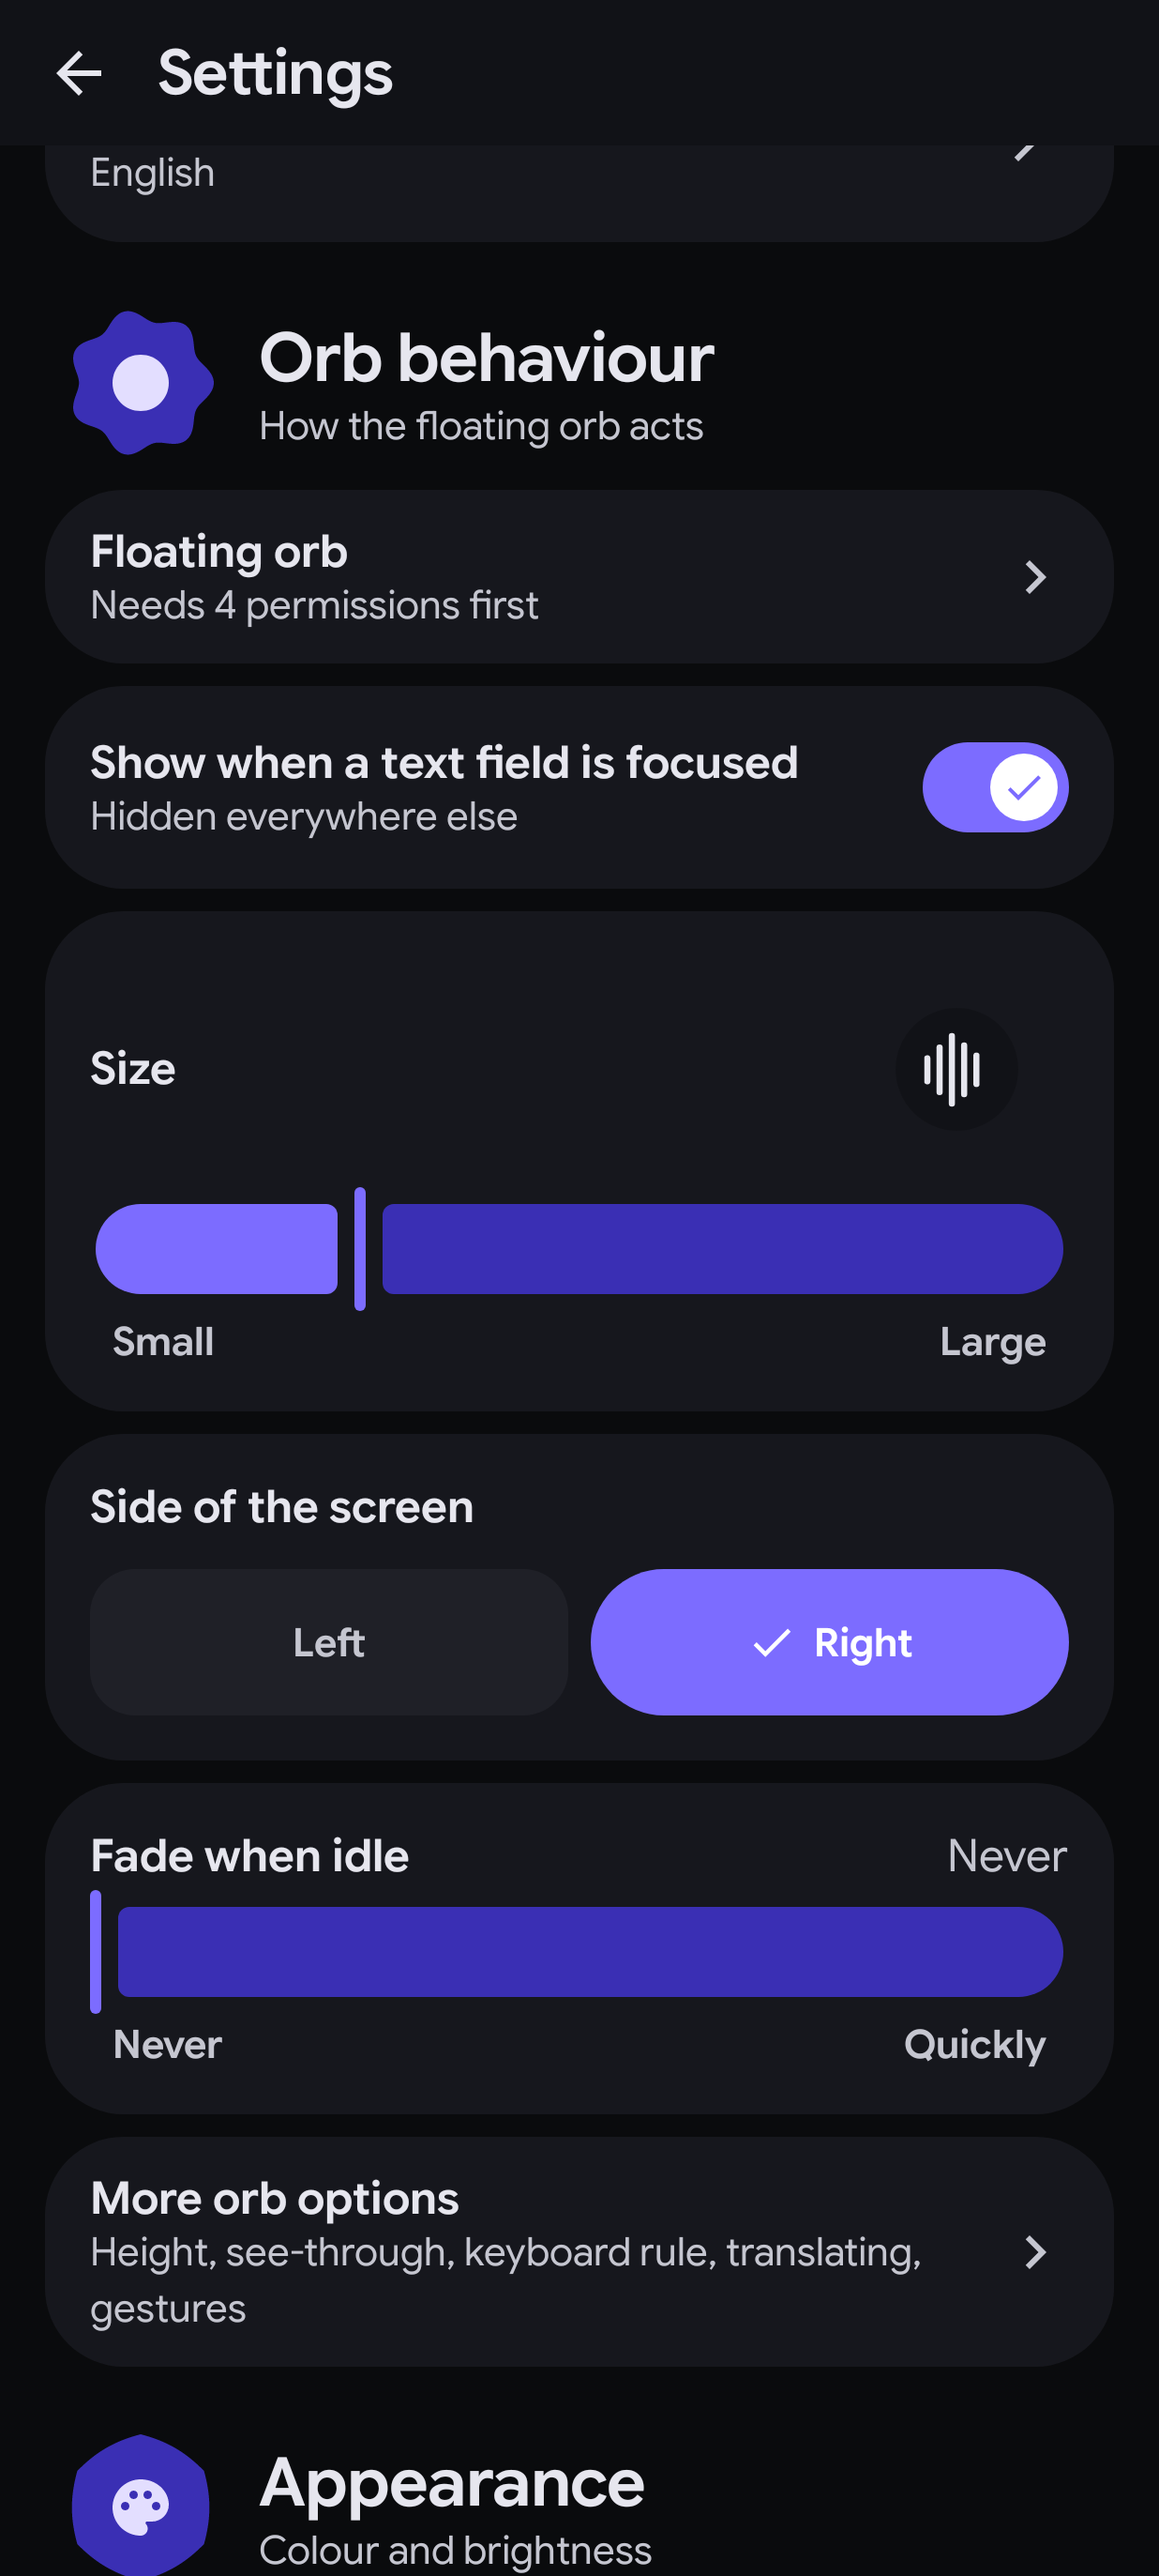
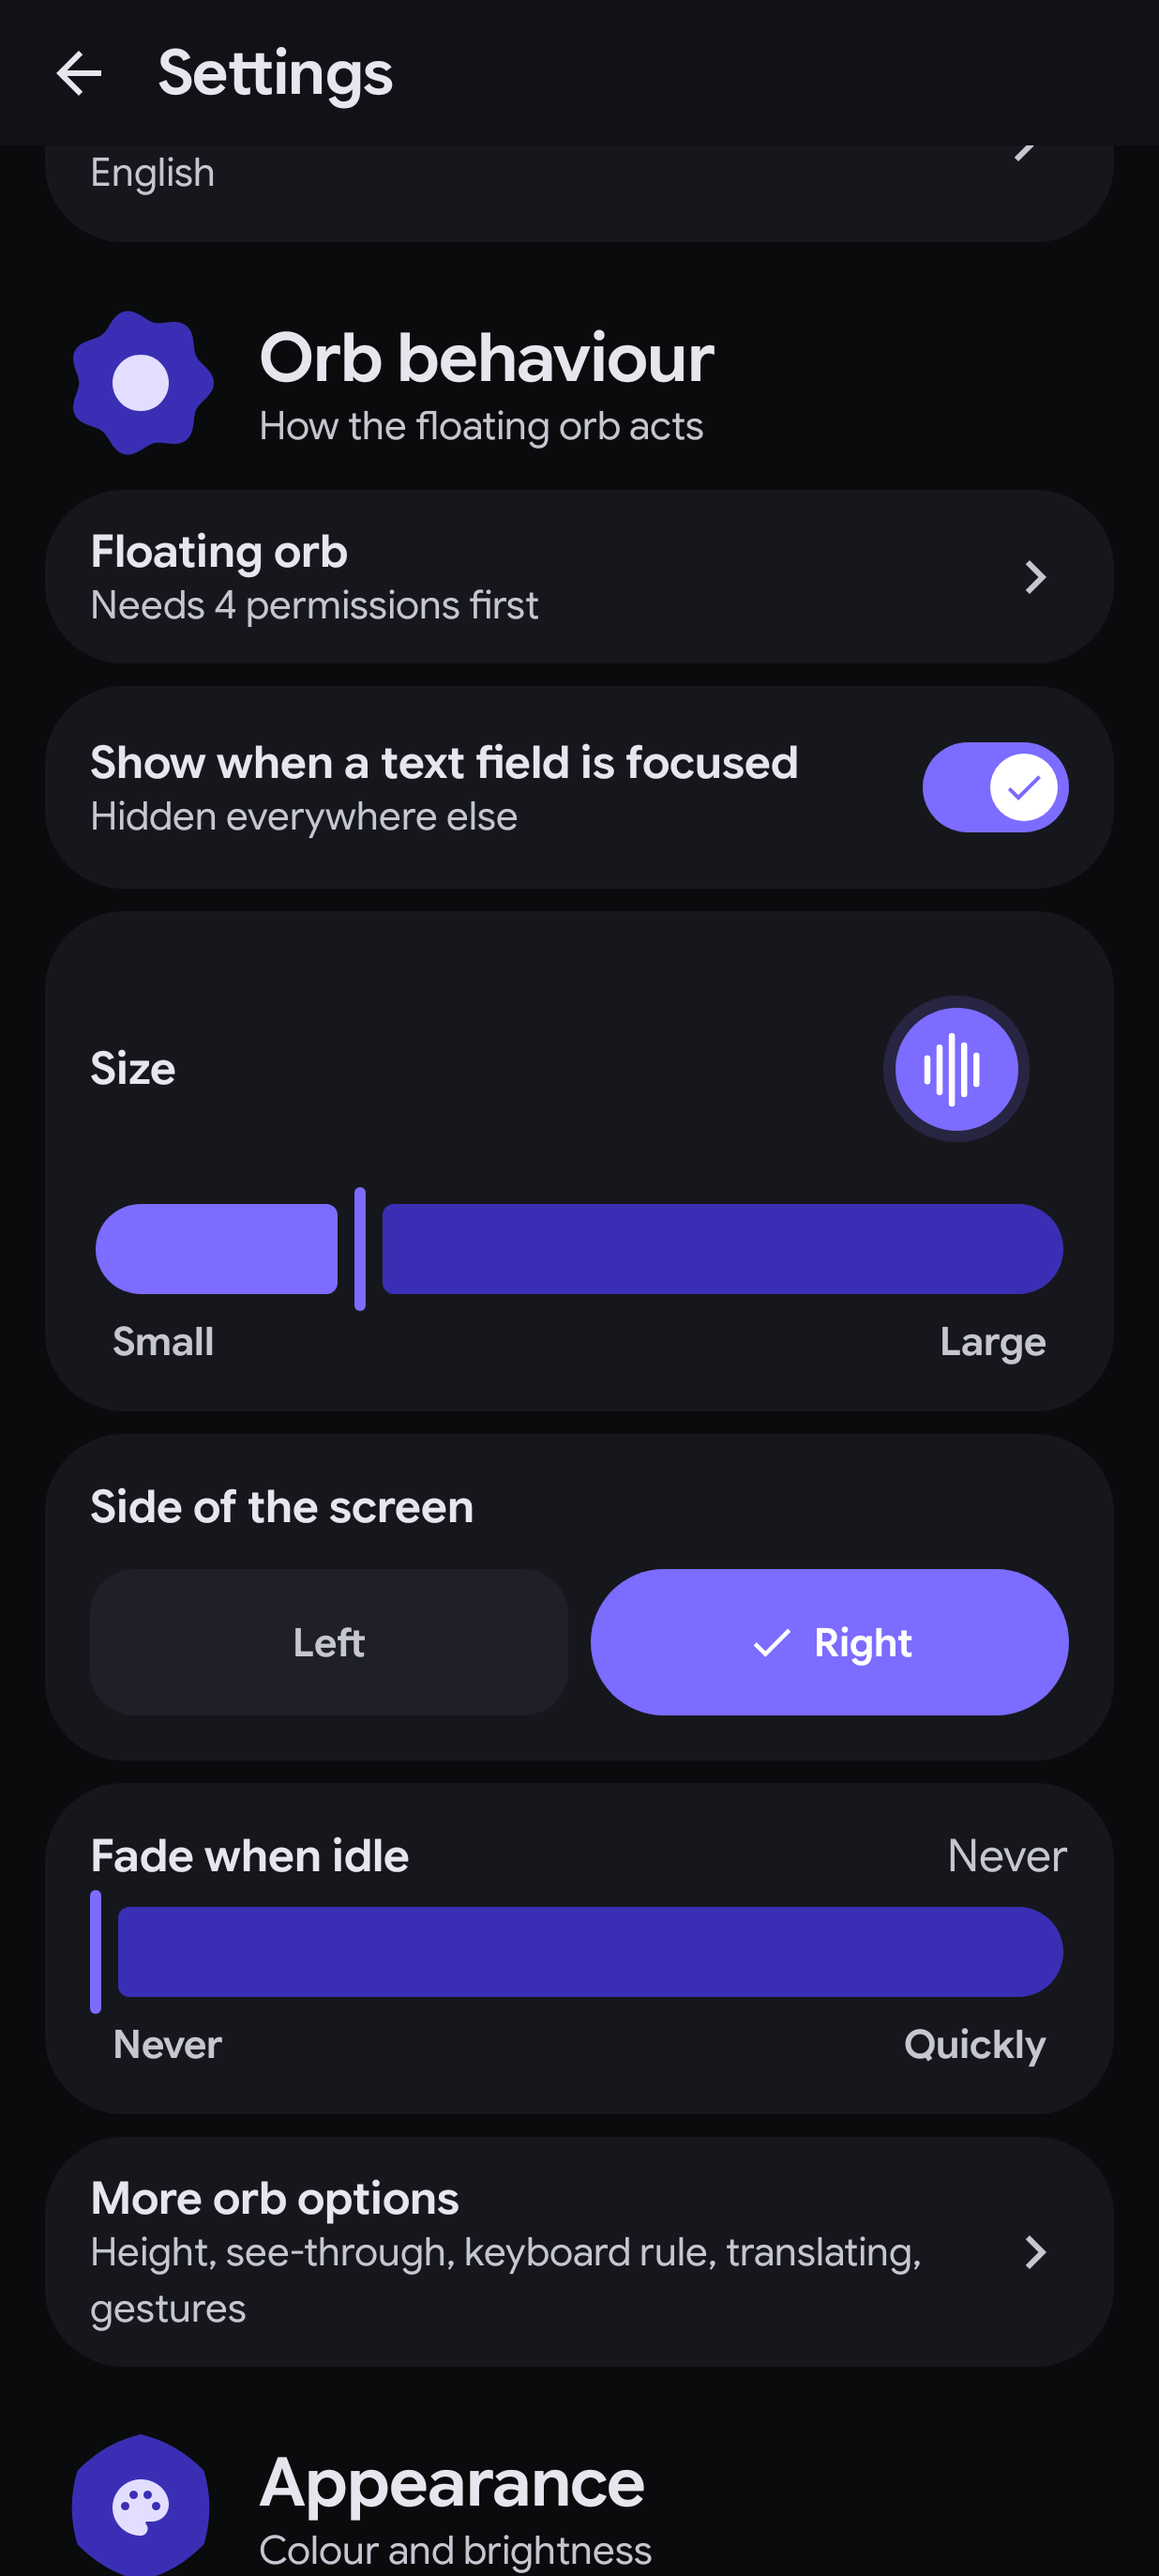
Languages card edits the shared language selection, and opens the same picker as the home screen
Drops the separate hint list; the card, the home screen and the engines all read one LanguageSelection.

Changed region(s): [[0.7379, 0.3716, 0.8916, 0.4645]]

diff --git a/app/src/main/java/io/github/pastdaking/rmblr/ui/screens/LanguageSettings.kt b/app/src/main/java/io/github/pastdaking/rmblr/ui/screens/LanguageSettings.kt
@@ -37,7 +37,6 @@ import androidx.compose.ui.draw.clip
 import androidx.compose.ui.platform.testTag
 import androidx.compose.ui.text.input.ImeAction
 import androidx.compose.ui.unit.dp
-import io.github.pastdaking.rmblr.data.LanguageRules
 import io.github.pastdaking.rmblr.data.PreferencesManager
 import io.github.pastdaking.rmblr.data.SUGGESTED_LANGUAGES
 import io.github.pastdaking.rmblr.ui.components.RmblrSheet
@@ -56,28 +55,27 @@ import io.github.pastdaking.rmblr.ui.theme.SecondaryWash
 import io.github.pastdaking.rmblr.ui.theme.TextHigh
 import io.github.pastdaking.rmblr.ui.theme.TextMid
 
-private enum class LanguageSheet { ADD_HINT, SINGLE, WRITE_IN, TRANSLATE_TO }
+private enum class LangSheet { SELECT, WRITE_IN, TRANSLATE_TO }
 
 /**
  * The Languages part of Settings: say what you speak, or leave it to the model.
  *
- * Auto-detect is the default and the recommendation. Naming extra languages while it is on
- * does not narrow anything; it only tells the model which ones are likely to turn up, which
- * helps when two of them sound alike. Turn auto-detect off and it becomes one named
- * language, the way the old single field worked.
+ * It edits the same [LanguageSelection] as the picker on the home screen. Auto-detect is the
+ * default; with it on, the names listed are only hints about what is likely to turn up. With
+ * it off they are the languages you speak, one or several for mixed speech.
  */
 @OptIn(ExperimentalLayoutApi::class)
 @Composable
 fun LanguagesSection(prefs: PreferencesManager, modifier: Modifier = Modifier) {
-    val state by prefs.languageStateFlow.collectAsState()
+    val selection by prefs.languageSelectionFlow.collectAsState()
     val writeIn by prefs.dictationLanguageFlow.collectAsState()
     val target by prefs.translateTargetFlow.collectAsState()
-    var sheet by remember { mutableStateOf<LanguageSheet?>(null) }
+    var sheet by remember { mutableStateOf<LangSheet?>(null) }
 
     Column(modifier, verticalArrangement = Arrangement.spacedBy(Space.sm)) {
         TonalCard(padding = PaddingValues(Space.lg)) {
             Row(verticalAlignment = Alignment.CenterVertically, modifier = Modifier.pressable(pressedScale = 0.99f) {
-                prefs.setLanguageState(state.copy(auto = !state.auto))
+                prefs.setLanguageSelection(selection.withAuto(!selection.auto))
             }) {
                 Column(Modifier.weight(1f)) {
                     Text("Auto-detect", color = TextHigh, style = MaterialTheme.typography.titleMedium)
@@ -88,75 +86,52 @@ fun LanguagesSection(prefs: PreferencesManager, modifier: Modifier = Modifier) {
                     )
                 }
                 Spacer(Modifier.width(Space.md))
-                TickSwitch(state.auto, { prefs.setLanguageState(state.copy(auto = it)) }, Modifier.testTag("switch_auto_detect"))
+                TickSwitch(
+                    selection.auto,
+                    { prefs.setLanguageSelection(selection.withAuto(it)) },
+                    Modifier.testTag("switch_auto_detect")
+                )
             }
 
             Spacer(Modifier.height(Space.md))
             HorizontalDivider(color = Line)
             Spacer(Modifier.height(Space.md))
 
-            if (state.auto) {
-                Text("Also expect", color = TextHigh, style = MaterialTheme.typography.titleMedium)
-                Spacer(Modifier.height(Space.sm))
-                FlowRow(
-                    horizontalArrangement = Arrangement.spacedBy(Space.sm),
-                    verticalArrangement = Arrangement.spacedBy(Space.sm)
-                ) {
-                    state.hints.forEach { name ->
-                        RemovableChip(name, onRemove = { prefs.setLanguageState(LanguageRules.withoutHint(state, name)) })
-                    }
-                    if (state.hints.size < LanguageRules.MAX_HINTS) {
-                        AssistChip(
-                            label = "Add language",
-                            icon = Icons.Default.Add,
-                            onClick = { sheet = LanguageSheet.ADD_HINT },
-                            modifier = Modifier.testTag("add_language")
-                        )
-                    }
+            Text(
+                if (selection.auto) "Also expect" else "Languages you speak",
+                color = TextHigh,
+                style = MaterialTheme.typography.titleMedium
+            )
+            Spacer(Modifier.height(Space.sm))
+            FlowRow(
+                horizontalArrangement = Arrangement.spacedBy(Space.sm),
+                verticalArrangement = Arrangement.spacedBy(Space.sm)
+            ) {
+                selection.names.forEach { name ->
+                    RemovableChip(name, onRemove = { prefs.setLanguageSelection(selection.toggle(name)) })
                 }
-            } else {
-                Row(
-                    verticalAlignment = Alignment.CenterVertically,
-                    modifier = Modifier.fillMaxWidth().pressable(pressedScale = 0.99f) { sheet = LanguageSheet.SINGLE }
-                ) {
-                    Column(Modifier.weight(1f)) {
-                        Text("Language you speak", color = TextHigh, style = MaterialTheme.typography.titleMedium)
-                        Text(
-                            state.single.ifBlank { "Choose one" },
-                            color = TextMid,
-                            style = MaterialTheme.typography.bodyMedium
-                        )
-                    }
-                    Icon(Icons.Default.ChevronRight, null, tint = TextMid)
-                }
+                AssistChip(
+                    label = "Add language",
+                    icon = Icons.Default.Add,
+                    onClick = { sheet = LangSheet.SELECT },
+                    modifier = Modifier.testTag("add_language")
+                )
             }
         }
 
         Column(verticalArrangement = Arrangement.spacedBy(4.dp)) {
-            LanguageRow(0, 2, "Write dictation in", writeIn.ifBlank { "Same as I spoke" }) { sheet = LanguageSheet.WRITE_IN }
-            LanguageRow(1, 2, "Translate into", target.ifBlank { "English" }) { sheet = LanguageSheet.TRANSLATE_TO }
+            LanguageRow(0, 2, "Write dictation in", writeIn.ifBlank { "Same as I spoke" }) { sheet = LangSheet.WRITE_IN }
+            LanguageRow(1, 2, "Translate into", target.ifBlank { "English" }) { sheet = LangSheet.TRANSLATE_TO }
         }
     }
 
     when (sheet) {
-        LanguageSheet.ADD_HINT -> LanguagePickerSheet(
-            title = "Also expect",
-            explanation = "Tell the model which other languages are likely to turn up. It still detects each word for itself.",
-            current = state.hints,
-            allowBlank = false,
-            onPick = { prefs.setLanguageState(LanguageRules.withHint(state, it)) },
-            onDismiss = { sheet = null },
-            closeOnPick = false
-        )
-        LanguageSheet.SINGLE -> LanguagePickerSheet(
-            title = "Language you speak",
-            explanation = "Type any language. It is only a name passed to the model, so it does not have to be on a list.",
-            current = listOf(state.single),
-            allowBlank = false,
-            onPick = { prefs.setLanguageState(state.copy(single = it)) },
+        LangSheet.SELECT -> LanguageSheet(
+            selection = selection,
+            onChange = { prefs.setLanguageSelection(it) },
             onDismiss = { sheet = null }
         )
-        LanguageSheet.WRITE_IN -> LanguagePickerSheet(
+        LangSheet.WRITE_IN -> LanguagePickerSheet(
             title = "Write dictation in",
             explanation = "Speak in one language and have it typed in another. Leave it on the first choice and your words go in exactly as spoken.",
             current = listOf(writeIn),
@@ -165,7 +140,7 @@ fun LanguagesSection(prefs: PreferencesManager, modifier: Modifier = Modifier) {
             onPick = { prefs.setDictationLanguage(it) },
             onDismiss = { sheet = null }
         )
-        LanguageSheet.TRANSLATE_TO -> LanguagePickerSheet(
+        LangSheet.TRANSLATE_TO -> LanguagePickerSheet(
             title = "Translate into",
             explanation = "Where translations land when you translate with the orb.",
             current = listOf(target),

diff --git a/app/src/test/java/io/github/pastdaking/rmblr/ui/screens/SettingsLogicTest.kt b/app/src/test/java/io/github/pastdaking/rmblr/ui/screens/SettingsLogicTest.kt
@@ -1,7 +1,5 @@
 package io.github.pastdaking.rmblr.ui.screens
 
-import io.github.pastdaking.rmblr.data.LanguageRules
-import io.github.pastdaking.rmblr.data.LanguageState
 import io.github.pastdaking.rmblr.data.Provider
 import kotlinx.coroutines.runBlocking
 import org.junit.Assert.assertEquals
@@ -74,53 +72,5 @@ class SettingsLogicTest {
         val result = KeyTester.test(Provider.CUSTOM, "sk-123456", "")
         assertFalse(result.ok)
         assertTrue(result.message.contains("base URL"))
-    }
-
-    // ---------------------------------------------------------------- languages
-
-    @Test fun `a language saved before the card existed reads back as one language with auto off`() {
-        val state = LanguageRules.read("Zulu", autoFlag = null, hintsRaw = null, singleRaw = null)
-        assertFalse(state.auto)
-        assertEquals("Zulu", state.single)
-        assertEquals("Zulu", state.spokenName)
-    }
-
-    @Test fun `a blank language reads back as auto with no hints`() {
-        val state = LanguageRules.read("", null, null, null)
-        assertTrue(state.auto)
-        assertEquals("", state.spokenName)
-    }
-
-    @Test fun `auto with hints names them as a list`() {
-        val state = LanguageState(auto = true, hints = listOf("French", "Spanish"), single = "")
-        assertEquals("French, Spanish", state.spokenName)
-    }
-
-    @Test fun `switching auto on keeps the single language for later`() {
-        val before = LanguageRules.read("Zulu", null, null, null)
-        val auto = before.copy(auto = true)
-        assertEquals("", auto.spokenName)
-        assertEquals("Zulu", auto.single)
-        assertEquals("Zulu", auto.copy(auto = false).spokenName)
-    }
-
-    @Test fun `hints are trimmed, unique and capped`() {
-        var s = LanguageState(true, emptyList(), "")
-        s = LanguageRules.withHint(s, " French ")
-        s = LanguageRules.withHint(s, "french")
-        s = LanguageRules.withHint(s, "")
-        assertEquals(listOf("French"), s.hints)
-        for (i in 1..10) s = LanguageRules.withHint(s, "Lang$i")
-        assertEquals(LanguageRules.MAX_HINTS, s.hints.size)
-    }
-
-    @Test fun `removing a hint ignores case`() {
-        val s = LanguageState(true, listOf("French", "Spanish"), "")
-        assertEquals(listOf("Spanish"), LanguageRules.withoutHint(s, "french").hints)
-    }
-
-    @Test fun `the hint list survives being written and read`() {
-        val list = listOf("isiZulu", "Afrikaans")
-        assertEquals(list, LanguageRules.parseList(LanguageRules.writeList(list)))
     }
 }

diff --git a/app/src/test/java/io/github/pastdaking/rmblr/ui/screens/SettingsShotTest.kt b/app/src/test/java/io/github/pastdaking/rmblr/ui/screens/SettingsShotTest.kt
@@ -6,7 +6,7 @@ import androidx.compose.ui.test.junit4.ComposeContentTestRule
 import androidx.compose.ui.test.onNodeWithText
 import androidx.compose.ui.test.performScrollTo
 import androidx.compose.ui.test.performSemanticsAction
-import io.github.pastdaking.rmblr.data.LanguageState
+import io.github.pastdaking.rmblr.data.LanguageSelection
 import io.github.pastdaking.rmblr.data.PreferencesManager
 import io.github.pastdaking.rmblr.data.Provider
 import io.github.pastdaking.rmblr.update.UpdateRepository
@@ -25,7 +25,7 @@ class SettingsShotTest : ProofShotBase() {
         prefs.setProviderKey(Provider.GEMINI, "AIzaSyD-example-key-0000-3f9a")
         prefs.setProviderKey(Provider.GROQ, "gsk_exampleexampleexample_k2Qz")
         KeyChecks(context).passed(Provider.GEMINI, "AIzaSyD-example-key-0000-3f9a")
-        prefs.setLanguageState(LanguageState(auto = true, hints = listOf("French", "Spanish"), single = ""))
+        prefs.setLanguageSelection(LanguageSelection(auto = true, names = listOf("French", "Spanish")))
         // A fresh check on record means the page does not go to GitHub while it is drawn.
         context.getSharedPreferences("rmblr_updates", android.content.Context.MODE_PRIVATE)
             .edit().putLong("last_check_at", System.currentTimeMillis()).commit()
